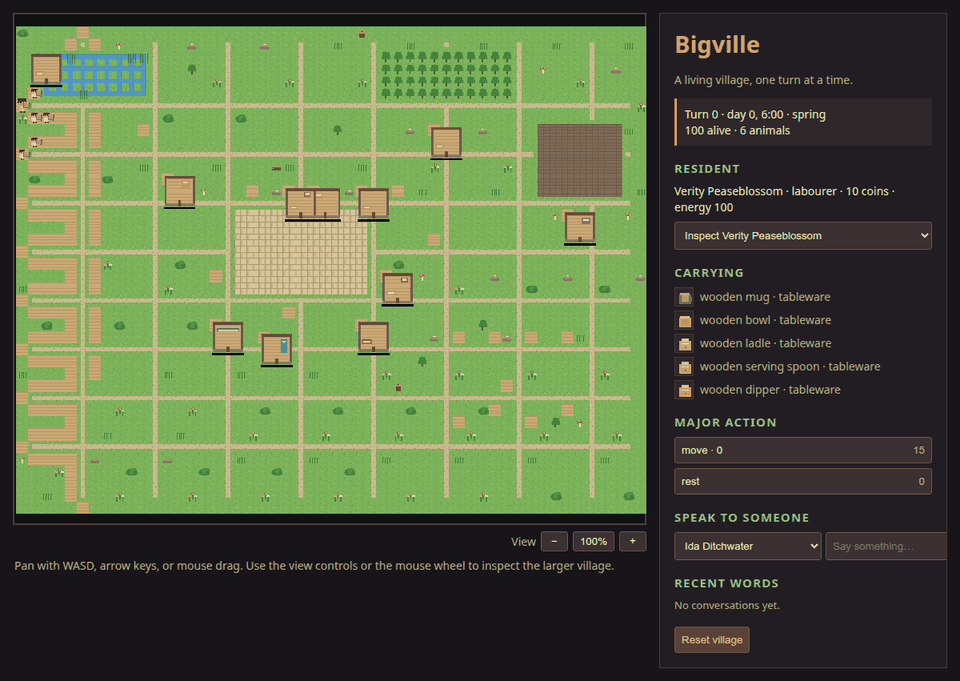
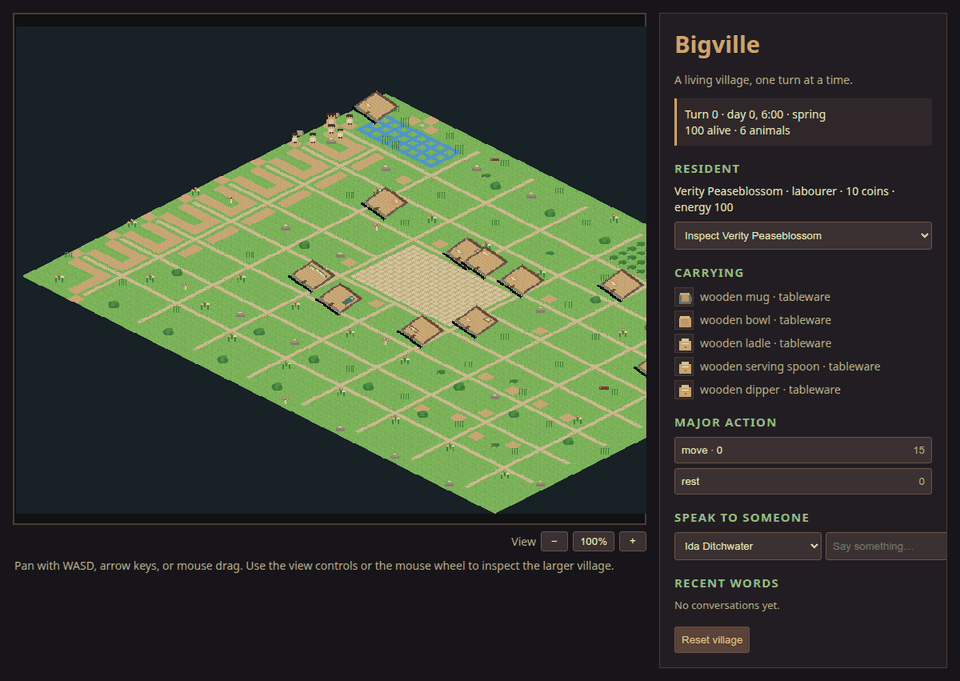
Render village in dimetric perspective

diff --git a/bigville/game/game.js b/bigville/game/game.js
@@ -1,5 +1,11 @@
 /* Bigville's browser client. Phaser renders the world; Python remains the authority. */
 const TILE = 16;
+const ISO_HALF_W = 12;
+const ISO_HALF_H = 6;
+const ISO_TILE_W = ISO_HALF_W * 2;
+const ISO_TILE_H = ISO_HALF_H * 2;
+const ISO_BUILDING_W = 72;
+const ISO_BUILDING_H = 36;
 // These are the initial viewport dimensions, not the world dimensions.  The
 // world is drawn from whatever map grid the selected scenario exports.
 const VIEWPORT_WIDTH = 52;
@@ -194,11 +200,11 @@ class BigvilleScene extends Phaser.Scene {
 
   preload() {
     this.load.json('asset_manifest', 'assets/manifest.json');
-    this.load.spritesheet('tileset', 'assets/tileset.png', {frameWidth: TILE, frameHeight: TILE});
+    this.load.spritesheet('tileset', 'assets/tileset_iso.png', {frameWidth: ISO_TILE_W, frameHeight: ISO_TILE_H});
     this.load.spritesheet('props', 'assets/props.png', {frameWidth: TILE, frameHeight: TILE});
-    this.load.spritesheet('buildings', 'assets/buildings.png', {frameWidth: 48, frameHeight: 48});
-    this.load.spritesheet('building_interiors', 'assets/building_interiors.png', {frameWidth: 48, frameHeight: 48});
-    this.load.spritesheet('building_parts', 'assets/building_parts.png', {frameWidth: TILE, frameHeight: TILE});
+    this.load.spritesheet('buildings', 'assets/buildings_iso.png', {frameWidth: ISO_BUILDING_W, frameHeight: ISO_BUILDING_H});
+    this.load.spritesheet('building_interiors', 'assets/building_interiors_iso.png', {frameWidth: ISO_BUILDING_W, frameHeight: ISO_BUILDING_H});
+    this.load.spritesheet('building_parts', 'assets/building_parts_iso.png', {frameWidth: ISO_TILE_W, frameHeight: ISO_TILE_H});
     this.load.spritesheet('building_badges', 'assets/building_badges.png', {frameWidth: TILE, frameHeight: TILE});
     this.load.spritesheet('items', 'assets/items.png', {frameWidth: TILE, frameHeight: TILE});
     this.load.spritesheet('characters', 'assets/character_variants.png', {frameWidth: 16, frameHeight: 16});
@@ -240,8 +246,7 @@ class BigvilleScene extends Phaser.Scene {
     for (const object of this.objects) object.destroy();
     this.objects = [];
     const map = snapshot.world.map;
-    const width = map.width * TILE;
-    const height = map.height * TILE;
+    this.setProjection(map);
     this.drawCanonicalMap(map);
     this.drawTerrainProps(map);
     const allResidents = snapshot.world.residents || [];
@@ -265,18 +270,42 @@ class BigvilleScene extends Phaser.Scene {
     for (const resident of visibleResidents) {
       const pos = resident.position || [0, 0];
       const frame = this.residentFrame(resident);
-      const sprite = this.add.sprite(pos[0] * TILE + 8, pos[1] * TILE + 8, 'characters', frame).setDepth(3);
+      const screen = this.cellPoint(pos[0], pos[1]);
+      const sprite = this.add.sprite(screen.x, screen.y - 8, 'characters', frame)
+        .setDepth(this.depthAt(pos[0], pos[1], 30));
       sprite.setInteractive({useHandCursor: true});
       sprite.on('pointerdown', () => { selectedResidentId = resident.id; renderSidebar(); });
       if (resident.id === snapshot.player) sprite.setScale(1.45).setTint(0xffe1a8);
       this.objects.push(sprite);
       this.drawResidentItems(resident, pos);
       if (resident.id === snapshot.player && !this.hasCentered) {
-        this.cameras.main.centerOn(pos[0] * TILE, pos[1] * TILE);
+        this.cameras.main.centerOn(screen.x, screen.y - 8);
         this.hasCentered = true;
       }
     }
-    this.cameras.main.setBounds(0, 0, width, height);
+    this.cameras.main.setBounds(0, 0, this.mapPixelWidth, this.mapPixelHeight);
+  }
+
+  setProjection(map) {
+    const margin = 88;
+    this.mapOrigin = {x: Number(map.height || 0) * ISO_HALF_W + margin, y: margin};
+    this.mapPixelWidth = (Number(map.width || 0) + Number(map.height || 0)) * ISO_HALF_W + margin * 2;
+    this.mapPixelHeight = (Number(map.width || 0) + Number(map.height || 0)) * ISO_HALF_H + margin * 2 + 64;
+  }
+
+  isoPoint(x, y) {
+    return {
+      x: this.mapOrigin.x + (x - y) * ISO_HALF_W,
+      y: this.mapOrigin.y + (x + y) * ISO_HALF_H,
+    };
+  }
+
+  cellPoint(x, y) {
+    return this.isoPoint(Number(x) + 0.5, Number(y) + 0.5);
+  }
+
+  depthAt(x, y, layer = 0) {
+    return (Number(x) + Number(y)) * 100 + Number(x) + layer;
   }
 
   adjustZoom(delta) {
@@ -318,8 +347,9 @@ class BigvilleScene extends Phaser.Scene {
       for (let x = 0; x < (grid[y] || []).length; x++) {
         const tile = grid[y][x];
         const frame = this.terrainFrame(tile, x, y, grid);
-        const sprite = this.add.sprite(x * TILE + 8, y * TILE + 8, 'tileset', frame)
-          .setDepth(0);
+        const point = this.cellPoint(x, y);
+        const sprite = this.add.sprite(point.x, point.y, 'tileset', frame)
+          .setDepth(this.depthAt(x, y, 0));
         this.objects.push(sprite);
       }
     }
@@ -346,7 +376,9 @@ class BigvilleScene extends Phaser.Scene {
     const addProp = (name, x, y, depth = 1.1) => {
       const frame = props[name];
       if (frame === undefined) return;
-      const sprite = this.add.sprite(x * TILE + 8, y * TILE + 8, 'props', frame).setDepth(depth);
+      const point = this.cellPoint(x, y);
+      const sprite = this.add.sprite(point.x, point.y - 6, 'props', frame)
+        .setDepth(this.depthAt(x, y, depth));
       this.objects.push(sprite);
     };
     for (let y = 0; y < grid.length; y++) {
@@ -414,8 +446,8 @@ class BigvilleScene extends Phaser.Scene {
     const [x, y] = building.position || [building.x || 0, building.y || 0];
     const width = Math.max(1, Number(building.w || 3));
     const height = Math.max(1, Number(building.h || 3));
-    const px = x * TILE;
-    const py = y * TILE;
+    const anchor = this.cellPoint(x + width / 2, y + height / 2);
+    const buildingDepth = this.depthAt(x + width - 1, y + height - 1, 20);
     const manifest = this.assetManifest?.buildings || {};
     const frame = (manifest.sprites || {})[building.type]
       ?? BUILDING_FRAMES[building.type] ?? BUILDING_FRAMES.house;
@@ -423,8 +455,9 @@ class BigvilleScene extends Phaser.Scene {
     // Preserve the authored 3x3 institution art while allowing arbitrary
     // footprints to fall back to the composable part vocabulary.
     if (width === 3 && height === 3) {
-      const sprite = this.add.sprite(px + 24, py + 24,
-        roofOn ? 'buildings' : 'building_interiors', frame).setDepth(2);
+      const sprite = this.add.sprite(anchor.x, anchor.y - ISO_BUILDING_H * 0.7,
+        roofOn ? 'buildings' : 'building_interiors', frame)
+        .setScale(1, 1.4).setDepth(buildingDepth);
       this.objects.push(sprite);
       return;
     }
@@ -432,8 +465,10 @@ class BigvilleScene extends Phaser.Scene {
     const parts = manifest.parts || {};
     const addPart = (name, cellX, cellY, depth = 2, tint = null) => {
       if (parts[name] === undefined) return;
-      const sprite = this.add.sprite(px + cellX * TILE + 8, py + cellY * TILE + 8,
-        'building_parts', parts[name]).setDepth(depth);
+      const point = this.cellPoint(x + cellX, y + cellY);
+      const sprite = this.add.sprite(point.x, point.y - 2,
+        'building_parts', parts[name]).setScale(1, 1.25)
+        .setDepth(this.depthAt(x + cellX, y + cellY, depth));
       if (tint !== null) sprite.setTint(tint);
       this.objects.push(sprite);
     };
@@ -467,8 +502,9 @@ class BigvilleScene extends Phaser.Scene {
     } else {
       const badges = manifest.badges || {};
       if (badges[building.type] !== undefined) {
-        const badge = this.add.sprite(px + Math.floor(width / 2) * TILE + 8,
-          py + height * TILE - 8, 'building_badges', badges[building.type]).setDepth(2.4);
+        const front = this.cellPoint(x + width / 2, y + height - 0.15);
+        const badge = this.add.sprite(front.x, front.y - 8, 'building_badges', badges[building.type])
+          .setDepth(buildingDepth + 2);
         this.objects.push(badge);
       }
     }
@@ -480,9 +516,9 @@ class BigvilleScene extends Phaser.Scene {
     const height = Math.max(1, Number(building.h || 3));
     const cellX = Math.min(width - 1, 1 + (index % Math.max(1, width - 1)));
     const cellY = Math.min(height - 1, 1 + Math.floor(index / Math.max(1, width - 1)));
-    const sprite = this.add.sprite(x * TILE + cellX * TILE + 8,
-      y * TILE + cellY * TILE + 8, 'characters', this.residentFrame(resident))
-      .setScale(1.15).setDepth(3);
+    const point = this.cellPoint(x + cellX, y + cellY);
+    const sprite = this.add.sprite(point.x, point.y - 8, 'characters', this.residentFrame(resident))
+      .setScale(1.15).setDepth(this.depthAt(x + cellX, y + cellY, 30));
     sprite.setInteractive({useHandCursor: true});
     sprite.on('pointerdown', () => { selectedResidentId = resident.id; renderSidebar(); });
     if (resident.id === this.playerId) sprite.setTint(0xffe1a8);
@@ -502,15 +538,17 @@ class BigvilleScene extends Phaser.Scene {
     const drawItem = (item, x, y, scale = 0.85) => {
       const frame = itemIcon(item.kind);
       if (!frame) return;
-      const sprite = this.add.sprite(x, y, 'items', frame.frame).setScale(scale).setDepth(4);
+      const sprite = this.add.sprite(x, y, 'items', frame.frame).setScale(scale)
+        .setDepth(this.depthAt(pos[0], pos[1], 35));
       this.objects.push(sprite);
     };
-    if (hand) drawItem(hand, pos[0] * TILE + 14, pos[1] * TILE + 7);
+    const point = this.cellPoint(pos[0], pos[1]);
+    if (hand) drawItem(hand, point.x + 7, point.y - 14);
     // Keep clothing readable without replacing the role/age body variant.
     worn.slice(0, 2).forEach((kind, index) => {
       const hat = /hat|bonnet|hood|cap/.test(kind);
-      drawItem({kind}, pos[0] * TILE + (hat ? 8 : 2 + index * 12),
-               pos[1] * TILE + (hat ? 1 : 12), 0.55);
+      drawItem({kind}, point.x + (hat ? 0 : -5 + index * 10),
+               point.y - (hat ? 17 : 1), 0.55);
     });
   }
 

diff --git a/bigville/game/assets/generate_assets.py b/bigville/game/assets/generate_assets.py
@@ -122,6 +122,35 @@ PAL = {
 }
 
 T = 16  # tile size
+ISO_W, ISO_H = 24, 12  # 2:1 dimetric ground diamond for one map cell
+
+
+def project_diamond(src):
+    """Project a square source frame onto a 2:1 dimetric diamond.
+
+    The simulation still speaks in square cells. These parallel art frames
+    only change the screen projection: source pixels are sampled through the
+    inverse diamond transform, keeping the asset generator deterministic and
+    avoiding a second set of hand-authored world coordinates.
+    """
+    out_w = max(1, src.w * ISO_W // T)
+    out_h = max(1, src.h * ISO_H // T)
+    out = Img(out_w, out_h)
+    half_w, half_h = out_w / 2.0, out_h / 2.0
+    for y in range(out_h):
+        for x in range(out_w):
+            nx = (x + 0.5 - half_w) / half_w
+            ny = (y + 0.5 - half_h) / half_h
+            if abs(nx) + abs(ny) > 1.0:
+                continue
+            u = (nx + ny) * 0.5 + 0.5
+            v = (ny - nx) * 0.5 + 0.5
+            sx = min(src.w - 1, max(0, int(u * src.w)))
+            sy = min(src.h - 1, max(0, int(v * src.h)))
+            i = (sy * src.w + sx) * 4
+            if src.px[i + 3]:
+                out.set(x, y, src.px[i:i + 4])
+    return out
 
 # ----------------------------------------------------------------------------
 # terrain tiles
@@ -893,6 +922,13 @@ def main():
         tindex[name] = i
     write_png(tsheet, os.path.join(HERE, "tileset.png"))
 
+    # Parallel dimetric terrain sheet. Frame indices intentionally match the
+    # square atlas, so clients can switch projection without changing map data.
+    iso_tsheet = Img(ISO_W * len(TILES), ISO_H)
+    for i, (_name, im) in enumerate(TILES):
+        iso_tsheet.blit(project_diamond(im), i * ISO_W, 0)
+    write_png(iso_tsheet, os.path.join(HERE, "tileset_iso.png"))
+
     # Transparent life props are kept in their own atlas so terrain remains
     # data-driven: a scenario can place or omit them without repainting the
     # underlying map tiles.
@@ -919,12 +955,22 @@ def main():
         bindex[name] = i
     write_png(bsheet, os.path.join(HERE, "buildings.png"))
 
+    iso_bsheet = Img(B * ISO_W // T * len(blds), B * ISO_H // T)
+    for i, (_name, im) in enumerate(blds):
+        iso_bsheet.blit(project_diamond(im), i * (B * ISO_W // T), 0)
+    write_png(iso_bsheet, os.path.join(HERE, "buildings_iso.png"))
+
     parts_sheet = Img(T * len(BUILDING_PART_NAMES), T)
     part_index = {}
     for i, name in enumerate(BUILDING_PART_NAMES):
         parts_sheet.blit(building_part(name), i * T, 0)
         part_index[name] = i
     write_png(parts_sheet, os.path.join(HERE, "building_parts.png"))
+
+    iso_parts_sheet = Img(ISO_W * len(BUILDING_PART_NAMES), ISO_H)
+    for i, name in enumerate(BUILDING_PART_NAMES):
+        iso_parts_sheet.blit(project_diamond(building_part(name)), i * ISO_W, 0)
+    write_png(iso_parts_sheet, os.path.join(HERE, "building_parts_iso.png"))
 
     badges_sheet = Img(T * len(blds), T)
     badge_index = {}
@@ -939,6 +985,12 @@ def main():
     for i, (name, _im) in enumerate(blds):
         isheet_buildings.blit(_house_interior(name), i * B, 0)
     write_png(isheet_buildings, os.path.join(HERE, "building_interiors.png"))
+
+    iso_isheet_buildings = Img(B * ISO_W // T * len(blds), B * ISO_H // T)
+    for i, (name, _im) in enumerate(blds):
+        iso_isheet_buildings.blit(project_diamond(_house_interior(name)),
+                                  i * (B * ISO_W // T), 0)
+    write_png(iso_isheet_buildings, os.path.join(HERE, "building_interiors_iso.png"))
 
     # Every canonical item gets a stable icon coordinate.  The atlas is a grid
     # so clients can request icons by name without requiring one file per item.
@@ -960,13 +1012,18 @@ def main():
             "zoom_range": [0.75, 3.0],
             "anchor": "cell_center_feet_or_building_center",
             "nearest_neighbour": True,
+            "projection": "dimetric_2_to_1",
+            "dimetric_ground_frame": [ISO_W, ISO_H],
+            "screen_axes": {"east": [ISO_W // 2, ISO_H // 2],
+                            "south": [-ISO_W // 2, ISO_H // 2]},
         },
         "palette": "warm cozy (Stardew-esque): greens/browns/soft blues",
         "style_reference": "pixel_art_art_direction.png",
         "tint_note": "characters.png bodies are drawn LIGHT; recolour at runtime "
                      "by MULTIPLY-compositing the resident's class/role colour.",
         "tileset": {
-            "file": "tileset.png", "tile": T, "count": len(TILES),
+            "file": "tileset.png", "tile": T, "iso_file": "tileset_iso.png",
+            "iso_tile": [ISO_W, ISO_H], "count": len(TILES),
             "layout": "horizontal strip; frame index = column",
             "tiles": tindex,
         },
@@ -992,10 +1049,14 @@ def main():
         "buildings": {
             "file": "buildings.png", "frame": B, "count": len(blds),
             "interior_file": "building_interiors.png",
-            "roof_states": {"on": "buildings.png", "off": "building_interiors.png"},
+            "iso_file": "buildings_iso.png", "iso_frame": [B * ISO_W // T, B * ISO_H // T],
+            "iso_interior_file": "building_interiors_iso.png",
+            "roof_states": {"on": "buildings.png", "off": "building_interiors.png",
+                             "iso_on": "buildings_iso.png", "iso_off": "building_interiors_iso.png"},
             "layout": "horizontal strip; frame index = column",
             "sprites": bindex,
             "parts_file": "building_parts.png", "parts_frame": T,
+            "iso_parts_file": "building_parts_iso.png", "iso_parts_frame": [ISO_W, ISO_H],
             "parts": part_index,
             "badges_file": "building_badges.png", "badges_frame": T,
             "badges": badge_index,
@@ -1039,7 +1100,7 @@ def main():
     }
     with open(os.path.join(HERE, "manifest.json"), "w") as f:
         json.dump(manifest, f, indent=2)
-    print("wrote tileset.png props.png characters.png character_variants.png actions.png items.png buildings.png manifest.json")
+    print("wrote tileset.png tileset_iso.png props.png characters.png character_variants.png actions.png items.png buildings.png buildings_iso.png building_parts_iso.png manifest.json")
     print("tiles:", list(tindex), "\nbuildings:", list(bindex), "\nitems:", len(iindex),
           "\nactions:", ACTION_NAMES, "\ncharacter variants:", CHAR_VARIANTS)
 

diff --git a/tests/test_bigville_server.py b/tests/test_bigville_server.py
@@ -22,7 +22,9 @@ def test_game_assets_are_present():
                          "assets/items.png", "assets/actions.png", "assets/manifest.json",
                          "assets/building_interiors.png", "assets/building_parts.png",
                          "assets/building_badges.png", "assets/props.png",
-                         "assets/terrain_art_direction.png"):
+                         "assets/terrain_art_direction.png", "assets/tileset_iso.png",
+                         "assets/buildings_iso.png", "assets/building_interiors_iso.png",
+                         "assets/building_parts_iso.png"):
             assert (GAME_ROOT / filename).is_file(), filename
 
 
@@ -36,6 +38,9 @@ def test_asset_manifest_covers_entity_items_and_modular_buildings():
     assert set(entities.BUILDINGS) <= set(manifest["buildings"]["sprites"])
     assert {"floor", "wall", "roof", "door"} <= set(manifest["buildings"]["parts"])
     assert manifest["design"]["logical_tile"] == 16
+    assert manifest["design"]["projection"] == "dimetric_2_to_1"
+    assert manifest["tileset"]["iso_tile"] == [24, 12]
+    assert manifest["buildings"]["iso_frame"] == [72, 36]
     assert len(manifest["terrain"]["transition_masks"]["path"]) == 16
     assert len(manifest["terrain"]["transition_masks"]["water"]) == 16
     assert {"flower_clump", "bush", "reed", "bench"} <= set(manifest["terrain"]["props"])

diff --git a/docs/GAME_ART_DESIGN.md b/docs/GAME_ART_DESIGN.md
@@ -8,7 +8,9 @@ asset manifest.
 ## World units
 
 - One map cell is one walkable world square, approximately one metre.
-- The logical terrain grid is 16x16 pixels per cell.
+- The logical terrain grid is 16x16 pixels per cell. The playable renderer
+  presents those cells as 24x12 2:1 dimetric diamonds; simulation coordinates
+  remain square-grid coordinates.
 - A resident occupies one cell, with their feet anchored at the cell centre's
   lower edge. A held item shares that anchor and is drawn as a separate layer.
 - A standard building occupies 3x3 cells and is therefore 48x48 logical
@@ -20,14 +22,19 @@ asset manifest.
 
 ## Camera and zoom
 
-- The base viewport is 52x40 cells (832x640 logical pixels), but the world
-  dimensions come from the scenario's exported map.
+- The base viewport is 832x640 logical pixels. Because cells are projected
+  into diamonds, the exact visible cell count varies with camera position,
+  zoom, and map orientation; world dimensions always come from the scenario's
+  exported map.
 - The camera is pixel-art nearest-neighbour at all zoom levels.
 - Supported zoom is 0.75x through 3x. 1x is the inspection baseline, 2x is
   the close interaction view, and 3x is for checking inventory, clothing,
   tools, and room contents.
 - Camera movement operates in world pixels, not CSS pixels. The viewport may
   show more or less of a scenario without changing simulation coordinates.
+- The screen projection is `screen_x = (x-y)*12` and
+  `screen_y = (x+y)*6`, with depth ordered by `x+y`. Buildings and people
+  remain upright screen sprites anchored to the projected ground footprint.
 
 ## Asset layers
 

diff --git a/README.md b/README.md
@@ -33,9 +33,10 @@ python -m bigville.server
 ```
 
 The cosy pixel-art terrain tiles, reusable building sprites, and supporting
-sprite/icon sheets are included in the package. The client assembles the map
-from the scenario's exported grid and building placements, so changing the
-world seed or scenario changes the geography without requiring a new backdrop.
+sprite/icon sheets are included in the package. The client presents the
+square simulation grid in a 3/4 dimetric view, while assembling the map from
+the scenario's exported grid and building placements. Changing the world seed
+or scenario changes the geography without requiring a new backdrop.
 Use the action buttons to submit a major action, or speak to another resident;
 autonomous deterministic residents take their own backend decisions on the
 same turn.
